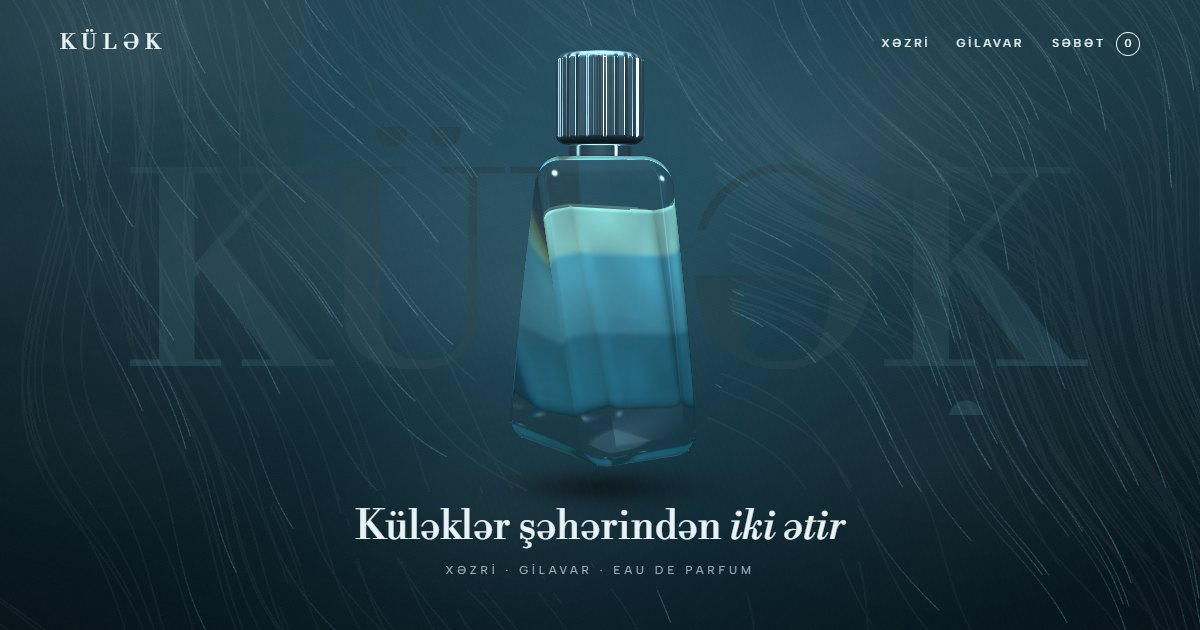
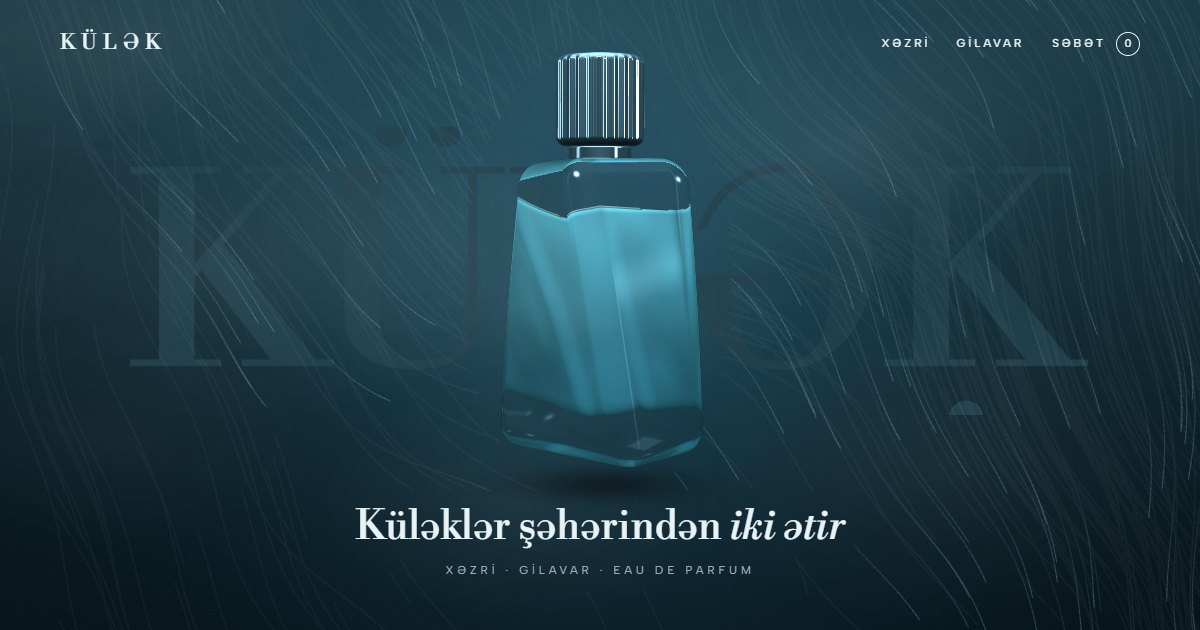
Single-colour juice; photographed notes with line-drawing fallback

Changed region(s): [[0.4008, 0.0603, 0.5858, 0.754], [0.9867, 0.9349, 1.0, 0.9952]]

diff --git a/js/fx.js b/js/fx.js
@@ -1,6 +1,6 @@
 // 2D layers above the bottle: wind trails, fog, the particles that become the bottle, the inside of the
 // juice, the notes orbiting Gilavar, and the spray that settles into words.
-import { bakeBotanica } from './botanica.js';
+import { bakeBotanica, loadPhotos } from './botanica.js';
 
 const TAU = Math.PI * 2;
 const cl = (x, a = 0, b = 1) => Math.min(b, Math.max(a, x));
@@ -33,6 +33,7 @@ export class FX {
     this.mobile = opts.mobile;
     this.reduced = opts.reduced;
     this.art = bakeBotanica('#0d1d24', '#f4ece0');
+    this.photos = loadPhotos(['bergamot', 'salt', 'cedar', 'saffron', 'fig', 'amber']);
     this.fogSprite = softSprite([[0, 'rgba(255,255,255,.9)'], [0.5, 'rgba(255,255,255,.35)'], [1, 'rgba(255,255,255,0)']]);
     this.mistSprite = softSprite([[0, 'rgba(255,214,160,.8)'], [0.55, 'rgba(240,170,100,.25)'], [1, 'rgba(240,170,100,0)']]);
     const r = rng(11);
@@ -46,11 +47,12 @@ export class FX {
     // inside the juice
     const br = rng(31);
     this.bubbles = Array.from({ length: this.mobile ? 40 : 80 }, () => ({ x: br(), y: br(), r: 1.5 + br() * 6, v: 0.25 + br() * 0.8, ph: br() * TAU }));
-    this.deepArt = [
-      ['cedar', 0.83], ['cedar', 0.86], ['cedar', 0.8],
-      ['salt', 0.5], ['salt', 0.53], ['salt', 0.47],
-      ['bergamot', 0.17], ['bergamot', 0.2], ['bergamot', 0.14],
-    ].map(([kind, c], i) => ({ kind, c, x: [0.16, 0.84, 0.3, 0.82, 0.14, 0.7, 0.2, 0.86, 0.66][i], s: 0.14 + br() * 0.08, rot: (br() - 0.5) * 0.8, ph: br() * TAU }));
+    // three takes per layer, placed above and below the layer's name so they never cover it
+    const spots = [[0.12, -0.075], [0.86, -0.06], [0.7, 0.085]];
+    this.deepArt = ['cedar', 'salt', 'bergamot'].flatMap((kind, li) => spots.map(([x, dc], j) => ({
+      kind, c: [0.83, 0.5, 0.17][li] + dc * (li % 2 ? -1 : 1), x: li % 2 ? 1 - x : x,
+      s: 0.13 + br() * 0.05, rot: (br() - 0.5) * 0.6, ph: br() * TAU,
+    })));
     // spray droplets
     const sr = rng(5);
     this.drops = Array.from({ length: this.mobile ? 900 : 1800 }, () => ({
@@ -71,6 +73,13 @@ export class FX {
     this.textPts = null;
   }
   setKeepOut(rects) { this.keep = rects; }
+
+  // a note at the origin of g, its subject about sz wide: the photo if it has loaded, else the drawing
+  drawNote(g, kind, i, sz) {
+    const p = this.photos[kind];
+    if (p && p.length) { const c = p[i % p.length]; const k = sz * 1.5; g.drawImage(c, -k / 2, -k / 2, k, k); }
+    else g.drawImage(this.art[kind].warm, -sz / 2, -sz / 2, sz, sz);
+  }
 
   sampleText(el) {
     const rect = el.getBoundingClientRect();
@@ -204,10 +213,13 @@ export class FX {
       for (const it of items) {
         const sz = it.size;
         g.save();
-        g.globalAlpha = S.orbitAmt * (it.front ? 1 : 0.32);
+        // behind the bottle: dim, and gone where the glass would hide it
+        const hide = it.front || !B ? 1 : ss(B.bh * 0.2, B.bh * 0.34, Math.abs(it.x - B.cx));
+        g.globalAlpha = S.orbitAmt * (it.front ? 1 : 0.45) * hide;
+        if (g.globalAlpha < 0.01) { g.restore(); continue; }
         g.translate(it.x, it.y);
         g.rotate(Math.sin(t * 0.5 + it.ph) * 0.15);
-        g.drawImage(this.art[it.kind].warm, -sz / 2, -sz / 2, sz, sz);
+        this.drawNote(g, it.kind, it.ph, sz);
         g.restore();
       }
       g.globalAlpha = 1;
@@ -240,7 +252,7 @@ export class FX {
         g.globalAlpha = S.inside * 0.9;
         g.translate(x, y + Math.sin(t * 0.6 + a.ph) * 8);
         g.rotate(a.rot + Math.sin(t * 0.3 + a.ph) * 0.1);
-        g.drawImage(this.art[a.kind].warm, -sz / 2, -sz / 2, sz, sz);
+        this.drawNote(g, a.kind, this.deepArt.indexOf(a), sz);
         g.restore();
       }
       // bubbles rising

diff --git a/js/botanica.js b/js/botanica.js
@@ -67,6 +67,32 @@ function svg(kind, ink) {
     <g fill="none" stroke="${ink}" stroke-width="1.5" stroke-linecap="round" stroke-linejoin="round">${d.ink}</g></svg>`;
 }
 
+// photographed notes (transparent WebP, two takes each), baked once with a soft shadow;
+// until they load, or if they fail, the line drawings below stand in
+export function loadPhotos(kinds, base = 'img/notes/') {
+  const out = {};
+  for (const k of kinds) {
+    out[k] = [];
+    for (const v of ['a', 'b']) {
+      const img = new Image();
+      img.decoding = 'async';
+      img.onload = () => {
+        const s = 384, pad = 96;
+        const c = document.createElement('canvas');
+        c.width = c.height = s + pad * 2;
+        const g = c.getContext('2d');
+        g.shadowColor = 'rgba(0,0,0,.55)'; g.shadowBlur = 30; g.shadowOffsetY = 14;
+        const r = Math.min(s / img.naturalWidth, s / img.naturalHeight);
+        const w = img.naturalWidth * r, h = img.naturalHeight * r;
+        g.drawImage(img, pad + (s - w) / 2, pad + (s - h) / 2, w, h);
+        out[k].push(c);
+      };
+      img.src = `${base}${k}-${v}.webp`;
+    }
+  }
+  return out;
+}
+
 // returns { kind: { cold: canvas, warm: canvas } }, filled once images load
 export function bakeBotanica(inkCold, inkWarm) {
   const out = {};

diff --git a/js/theme.js b/js/theme.js
@@ -18,9 +18,10 @@ export const WARM = {
   ink: hex('#f6e8d2'), muted: hex('#c9a988'), cssAccent: hex('#e8a33c'), line: hex('#6b4a2c'), panel: hex('#1c0f07'),
 };
 
-// juice layers: trace, heart, opening
-export const LIQ_COLD = [hex('#1b6a85'), hex('#3d97b0'), hex('#86c6bb')];
-export const LIQ_WARM = [hex('#9a3807'), hex('#c45c12'), hex('#e39a2b')];
+// one juice per fragrance, only a little deeper towards the bottom (real perfume does not layer);
+// the three stops let the colour change rise through the bottle when the wind turns
+export const LIQ_COLD = [hex('#2b8399'), hex('#3b98ad'), hex('#4ea8bb')];
+export const LIQ_WARM = [hex('#b04f0d'), hex('#c46317'), hex('#d27621')];
 
 const mix = (a, b, t) => (Array.isArray(a) ? a.map((v, i) => v + (b[i] - v) * t) : a + (b - a) * t);
 

diff --git a/js/bottle.js b/js/bottle.js
@@ -143,8 +143,8 @@ void main(){
   vec3 c0 = mix(uLiqC[0], uLiqW[0], uLayerWarm.x);
   vec3 c1 = mix(uLiqC[1], uLiqW[1], uLayerWarm.y);
   vec3 c2 = mix(uLiqC[2], uLiqW[2], uLayerWarm.z);
-  vec3 col = mix(c0, c1, smoothstep(b1 - .025, b1 + .025, y));
-  col = mix(col, c2, smoothstep(b2 - .025, b2 + .025, y));
+  vec3 col = mix(c0, c1, smoothstep(b1 - .24, b1 + .24, y));
+  col = mix(col, c2, smoothstep(b2 - .24, b2 + .24, y));
   vec3 n = normalize(vN); vec3 v = normalize(uCam - vW);
   float ndv = abs(dot(n, v));
   float ca = noise3(vec3(vR.x * 4.5, vR.y * 3. - uTime * .12, vR.z * 4.5 + uTime * .05));
